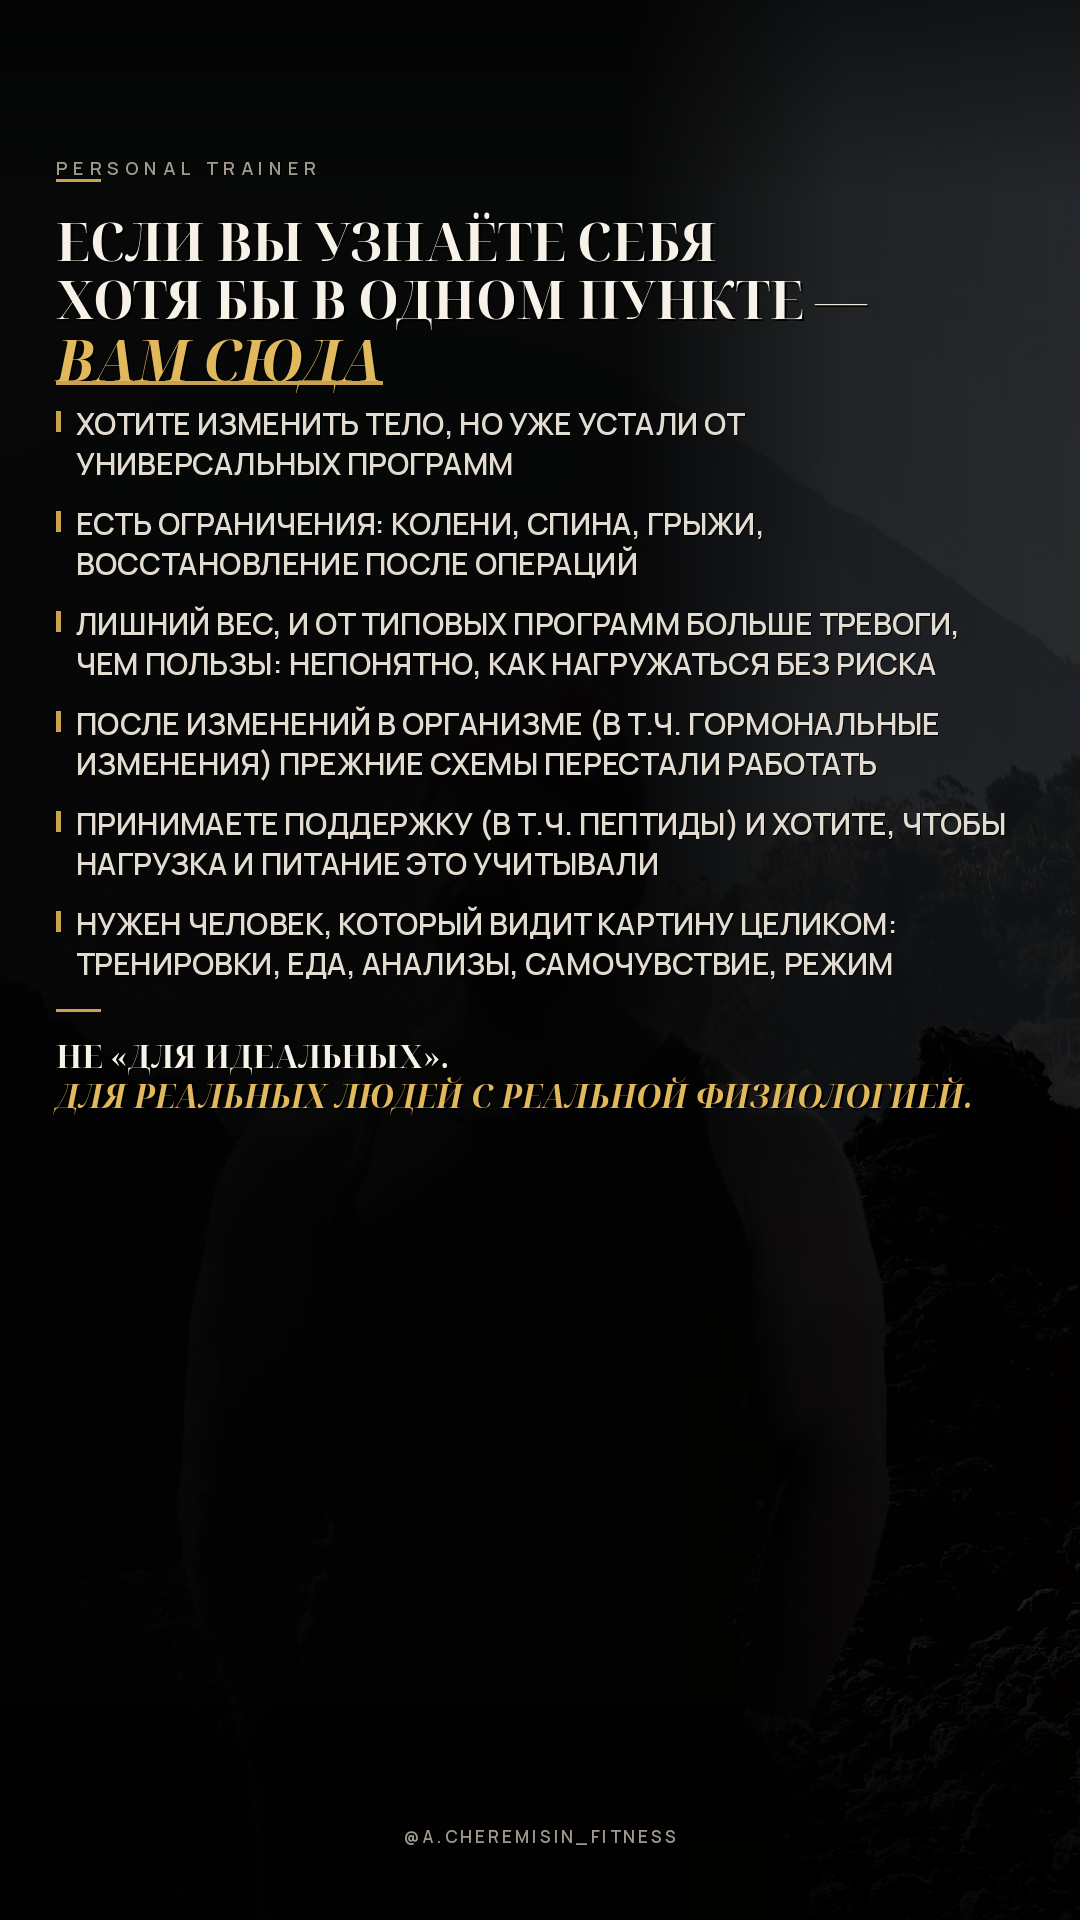
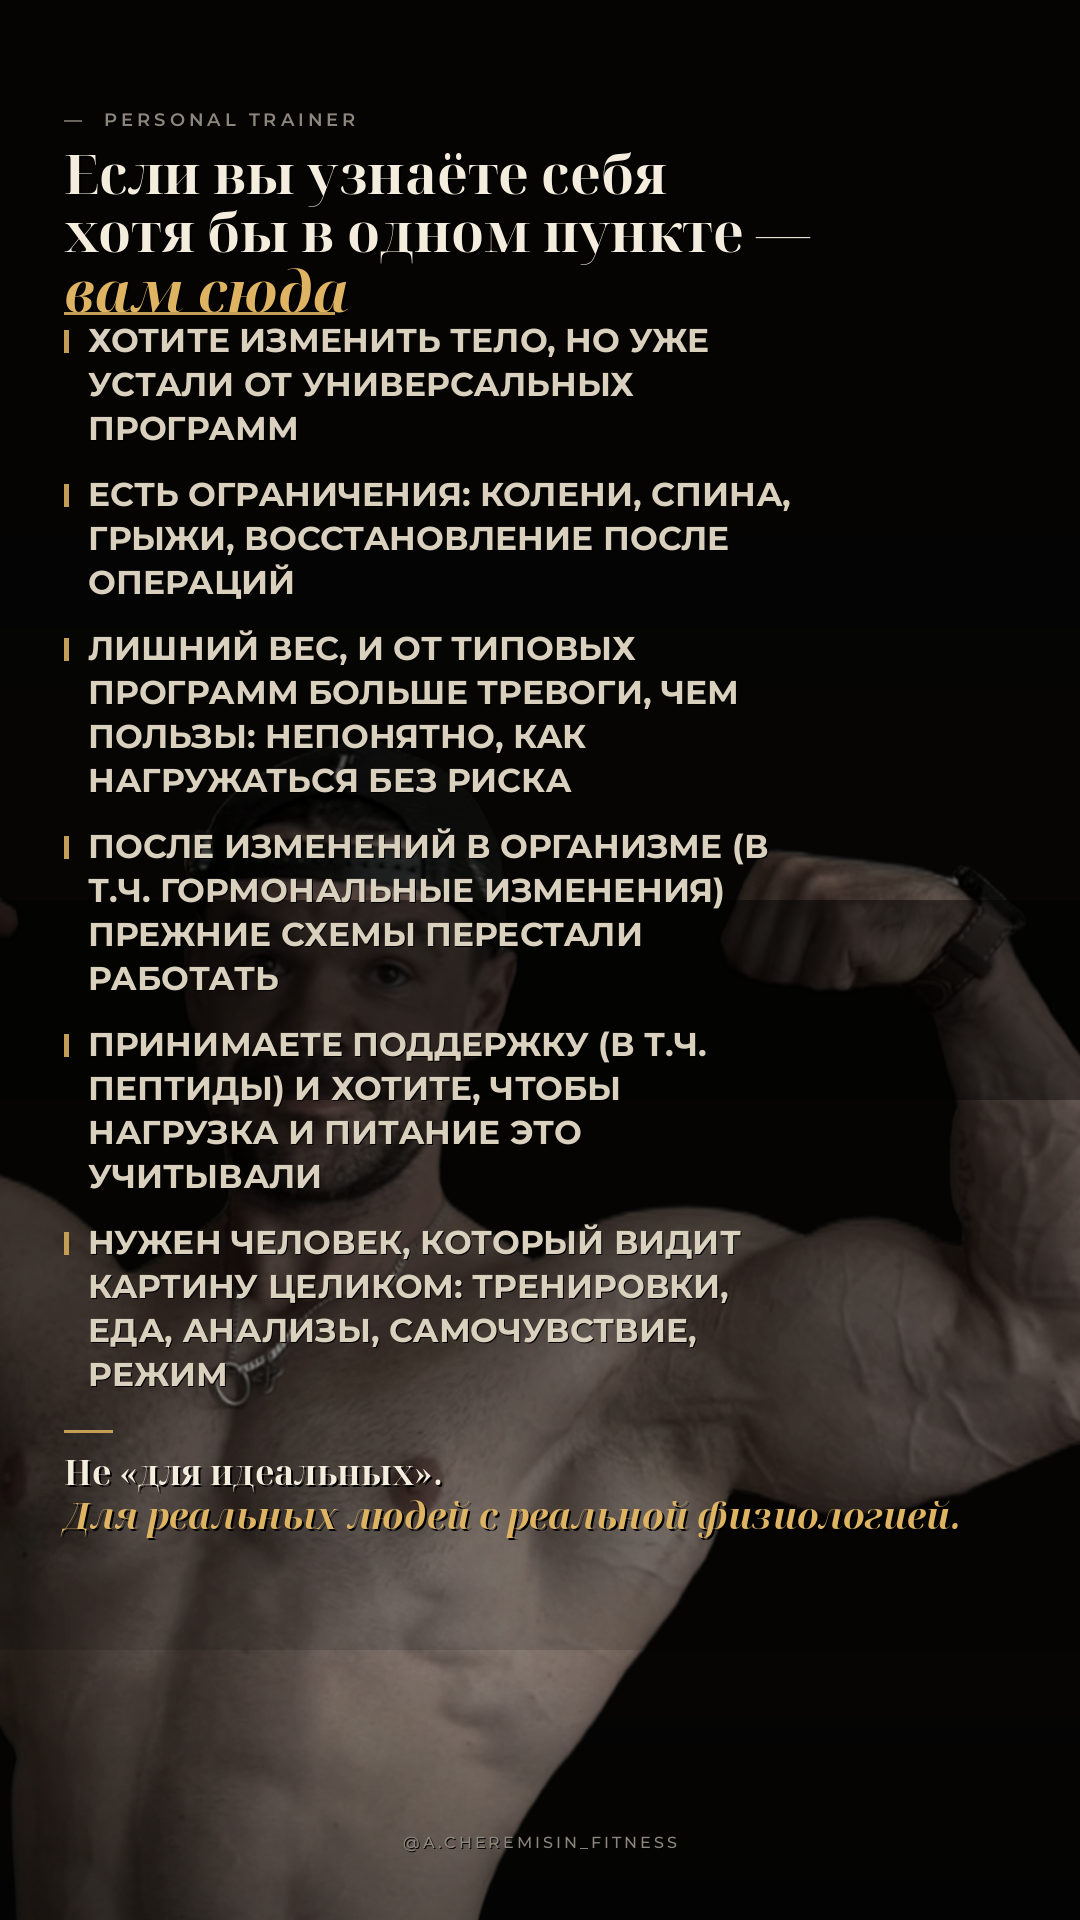
Restyle story: Artur cutout, ALL CAPS body, filled page
Darker underlay with subject cutout, larger Montserrat all-caps
list, continuous top-to-bottom layout without large empty bands.

diff --git a/create_story.py b/create_story.py
@@ -1,87 +1,98 @@
 #!/usr/bin/env python3
 """
-Instagram Stories — layout by annotated zones:
-1) header  2) list+close  3) free CTA zone  4) handle
-All-caps editorial serif (like ТАРИФ «ПЛАН» ref) + Manrope body.
+Instagram Stories slide — filled page, ALL CAPS body, Artur cutout on dark.
 """
 
-from PIL import Image, ImageDraw, ImageFont, ImageEnhance
+from PIL import Image, ImageDraw, ImageFont, ImageEnhance, ImageFilter
 from pathlib import Path
 
 W, H = 1080, 1920
-ASSETS = Path("/home/ubuntu/.cursor/projects/workspace/assets")
+CUTOUTS = Path("/workspace/story-assets/cutouts")
 FONTS = Path("/workspace/story-assets/fonts")
+NOTO = Path("/usr/share/fonts/truetype/noto")
 OUT = Path("/workspace/output")
 ART = Path("/opt/cursor/artifacts")
 OUT.mkdir(exist_ok=True)
 ART.mkdir(parents=True, exist_ok=True)
 
-CREAM = (246, 242, 232)
-CREAM_DIM = (226, 220, 208)
-GOLD = (226, 184, 92)
-GOLD_SOFT = (200, 162, 80)
-MUTED = (160, 152, 140)
+CREAM = (244, 236, 220)
+CREAM_DIM = (218, 208, 190)
+GOLD = (222, 180, 98)
+GOLD_SOFT = (196, 158, 84)
+MUTED = (140, 134, 124)
 
-NOTO = Path("/usr/share/fonts/truetype/noto")
-# Expensive all-caps serif like ТАРИФ «ПЛАН»
-font_hook = ImageFont.truetype(str(NOTO / "NotoSerifDisplay-Bold.ttf"), 52)
-font_accent = ImageFont.truetype(str(NOTO / "NotoSerifDisplay-BoldItalic.ttf"), 56)
-font_close = ImageFont.truetype(str(NOTO / "NotoSerifDisplay-Bold.ttf"), 32)
-font_close_em = ImageFont.truetype(str(NOTO / "NotoSerifDisplay-BoldItalic.ttf"), 32)
-# Body — clean geometric sans, all caps, larger for readability
-font_body = ImageFont.truetype(str(FONTS / "MR-600.ttf"), 30)
-font_label = ImageFont.truetype(str(FONTS / "MR-600.ttf"), 18)
-font_handle = ImageFont.truetype(str(FONTS / "MR-600.ttf"), 17)
-
-
-def cover_crop(img: Image.Image, tw: int, th: int, focus=(0.60, 0.32)) -> Image.Image:
-    img = img.convert("RGB")
-    sw, sh = img.size
-    scale = max(tw / sw, th / sh)
-    nw, nh = int(sw * scale), int(sh * scale)
-    img = img.resize((nw, nh), Image.Resampling.LANCZOS)
-    left = int((nw - tw) * focus[0])
-    top = int((nh - th) * focus[1])
-    left = max(0, min(left, nw - tw))
-    top = max(0, min(top, nh - th))
-    return img.crop((left, top, left + tw, top + th))
+# Headline — high-contrast Didone (premium)
+font_hook = ImageFont.truetype(str(NOTO / "NotoSerifDisplay-Bold.ttf"), 54)
+font_hook_it = ImageFont.truetype(str(NOTO / "NotoSerifDisplay-BoldItalic.ttf"), 56)
+font_close = ImageFont.truetype(str(NOTO / "NotoSerifDisplay-Bold.ttf"), 34)
+font_close_it = ImageFont.truetype(str(NOTO / "NotoSerifDisplay-BoldItalic.ttf"), 36)
+# Body — modern sans ALL CAPS (как в тарифе «ПЛАН»)
+font_body = ImageFont.truetype(str(FONTS / "Montserrat-700.ttf"), 33)
+font_label = ImageFont.truetype(str(FONTS / "Montserrat-600.ttf"), 18)
+font_handle = ImageFont.truetype(str(FONTS / "Montserrat-500.ttf"), 16)
 
 
-def make_underlay(photo: Image.Image, focus) -> Image.Image:
-    base = cover_crop(photo, W, H, focus=focus)
-    # Slightly darker than previous pass
-    base = ImageEnhance.Brightness(base).enhance(0.40)
-    base = ImageEnhance.Color(base).enhance(0.45)
-    base = ImageEnhance.Contrast(base).enhance(1.20)
+def load_cutout(path: Path, max_h: int = 1500) -> Image.Image:
+    im = Image.open(path).convert("RGBA")
+    bbox = im.getbbox()
+    im = im.crop(bbox)
+    # scale to height
+    ratio = max_h / im.height
+    im = im.resize((int(im.width * ratio), max_h), Image.Resampling.LANCZOS)
+    # Visible through dark veil — enough presence to fill lower page
+    rgb = im.convert("RGB")
+    rgb = ImageEnhance.Brightness(rgb).enhance(0.52)
+    rgb = ImageEnhance.Color(rgb).enhance(0.42)
+    rgb = ImageEnhance.Contrast(rgb).enhance(1.22)
+    out = rgb.convert("RGBA")
+    out.putalpha(im.split()[-1])
+    # soft edge
+    alpha = out.split()[-1].filter(ImageFilter.GaussianBlur(0.6))
+    out.putalpha(alpha)
+    return out
 
-    warm = Image.new("RGB", (W, H), (5, 3, 2))
-    base = Image.blend(base, warm, 0.42)
-    rgba = base.convert("RGBA")
 
-    panel = Image.new("RGBA", (W, H), (0, 0, 0, 0))
-    pd = ImageDraw.Draw(panel)
-    for x in range(W):
-        t = x / W
-        if t < 0.58:
-            a = 225
-        elif t < 0.78:
-            a = int(225 - (t - 0.58) / 0.20 * 140)
-        else:
-            a = int(85 - (t - 0.78) / 0.22 * 25)
-        pd.line([(x, 0), (x, H)], fill=(2, 2, 2, max(50, a)))
+def place_cutout(canvas: Image.Image, cutout: Image.Image, anchor="bottom-center"):
+    """Place Artur on the right/lower half so he shows beside/behind type."""
+    cw, ch = cutout.size
+    if anchor == "bottom-center":
+        x = W - cw + 20
+        y = H - ch + 60
+    elif anchor == "bottom-right":
+        x = W - cw + 40
+        y = H - ch + 80
+    else:
+        x, y = 100, H - ch
+    # soft glow behind figure
+    glow = Image.new("RGBA", (W, H), (0, 0, 0, 0))
+    g = cutout.copy()
+    # expand alpha for glow
+    ga = g.split()[-1].filter(ImageFilter.GaussianBlur(28))
+    glow_layer = Image.new("RGBA", g.size, (40, 32, 22, 0))
+    glow_layer.putalpha(ga.point(lambda a: min(90, a // 3)))
+    glow.paste(glow_layer, (x, y), glow_layer)
+    canvas = Image.alpha_composite(canvas, glow)
+    canvas.paste(cutout, (x, y), cutout)
+    return canvas
 
-    vig = Image.new("RGBA", (W, H), (0, 0, 0, 0))
-    vd = ImageDraw.Draw(vig)
-    for y in range(0, 200):
-        a = int(130 * (1 - y / 200))
-        vd.line([(0, y), (W, y)], fill=(0, 0, 0, a))
-    for y in range(1600, H):
-        a = int(170 * ((y - 1600) / (H - 1600)) ** 0.85)
-        vd.line([(0, y), (W, y)], fill=(0, 0, 0, min(210, a)))
 
-    out = Image.alpha_composite(rgba, panel)
-    out = Image.alpha_composite(out, vig)
-    return out.convert("RGB")
+def dark_veil(canvas: Image.Image) -> Image.Image:
+    """Extra darken so Artur reads through darkness; text stays crisp."""
+    veil = Image.new("RGBA", (W, H), (0, 0, 0, 0))
+    d = ImageDraw.Draw(veil)
+    # Darker overall; keep mid-lower a bit more open so Artur reads
+    d.rectangle([0, 0, W, H], fill=(0, 0, 0, 125))
+    for y in range(0, 900):
+        a = int(60 * (1 - y / 900) ** 0.7)
+        d.line([(0, y), (W, y)], fill=(0, 0, 0, a))
+    # lighter veil where figure sits (mid-lower)
+    for y in range(1100, 1650):
+        a = 35
+        d.line([(0, y), (W, y)], fill=(0, 0, 0, a))
+    for y in range(1650, H):
+        a = int(90 * ((y - 1650) / (H - 1650)))
+        d.line([(0, y), (W, y)], fill=(0, 0, 0, min(140, a)))
+    return Image.alpha_composite(canvas, veil)
 
 
 def wrap_text(text, font, max_width, draw):
@@ -106,106 +117,107 @@ def shadow_text(draw, xy, text, font, fill, offset=2):
     draw.text((x, y), text, font=font, fill=fill)
 
 
-def spaced(draw, text, font, xy, fill, tracking=3, offset=1):
+def spaced_label(draw, text, font, xy, fill, tracking=5):
     x, y = xy
     for ch in text:
-        shadow_text(draw, (x, y), ch, font, fill, offset=offset)
+        shadow_text(draw, (x, y), ch, font, fill, offset=1)
         x += draw.textlength(ch, font=font) + tracking
-    return x
 
 
-def build(photo_path: Path, out_name: str, focus=(0.60, 0.32)):
-    base = make_underlay(Image.open(photo_path), focus)
-    canvas = base.convert("RGBA")
+def build(cutout_path: Path, out_name: str, max_h=1480, anchor="bottom-center"):
+    # Near-black base
+    canvas = Image.new("RGBA", (W, H), (6, 5, 4, 255))
+    cut = load_cutout(cutout_path, max_h=max_h)
+    canvas = place_cutout(canvas, cut, anchor=anchor)
+    canvas = dark_veil(canvas)
+
     draw = ImageDraw.Draw(canvas)
+    margin = 64
+    content_w = W - margin * 2 - 10
 
-    # Full-width column with comfortable side margins (zones fill width)
-    margin = 56
-    content_w = W - margin * 2 - 8
-
-    # Zone boundaries from annotated layout (approx)
-    # Zone1 header ~160–480, Zone2 list ~500–1380, Zone3 CTA free ~1400–1750
-    y = 155
-
-    # ════════ ZONE 1 — HEADER ════════
-    spaced(draw, "PERSONAL TRAINER", font_label, (margin, y), MUTED, tracking=6)
-    y += 24
-    draw.rectangle([margin, y, margin + 44, y + 2], fill=GOLD_SOFT)
-    y += 26
-
-    for line in ("ЕСЛИ ВЫ УЗНАЁТЕ СЕБЯ", "ХОТЯ БЫ В ОДНОМ ПУНКТЕ —"):
+    # Flow top → middle → bottom continuously (как разметка: 3 блока без дыр)
+    y = 108
+    spaced_label(draw, "—  PERSONAL TRAINER", font_label, (margin, y), MUTED, tracking=4)
+    y += 28
+    for line in ("Если вы узнаёте себя", "хотя бы в одном пункте —"):
         shadow_text(draw, (margin, y), line, font_hook, CREAM, offset=2)
         y += 58
+    shadow_text(draw, (margin, y), "вам сюда", font_hook_it, GOLD, offset=2)
+    aw = draw.textlength("вам сюда", font=font_hook_it)
+    draw.rectangle([margin, y + 60, margin + aw * 0.95, y + 62], fill=GOLD_SOFT)
+    y += 68
 
-    shadow_text(draw, (margin, y), "ВАМ СЮДА", font_accent, GOLD, offset=2)
-    aw = draw.textlength("ВАМ СЮДА", font=font_accent)
-    draw.rectangle([margin, y + 60, margin + aw, y + 63], fill=GOLD_SOFT)
-    y += 82  # short bridge into list
-
-    # ════════ ZONE 2 — LIST + CLOSE (fill middle, leave bottom for sticker) ════════
     bullets = [
-        "ХОТИТЕ ИЗМЕНИТЬ ТЕЛО, НО УЖЕ УСТАЛИ ОТ УНИВЕРСАЛЬНЫХ ПРОГРАММ",
-        "ЕСТЬ ОГРАНИЧЕНИЯ: КОЛЕНИ, СПИНА, ГРЫЖИ, ВОССТАНОВЛЕНИЕ ПОСЛЕ ОПЕРАЦИЙ",
-        "ЛИШНИЙ ВЕС, И ОТ ТИПОВЫХ ПРОГРАММ БОЛЬШЕ ТРЕВОГИ, ЧЕМ ПОЛЬЗЫ: НЕПОНЯТНО, КАК НАГРУЖАТЬСЯ БЕЗ РИСКА",
-        "ПОСЛЕ ИЗМЕНЕНИЙ В ОРГАНИЗМЕ (В Т.Ч. ГОРМОНАЛЬНЫЕ ИЗМЕНЕНИЯ) ПРЕЖНИЕ СХЕМЫ ПЕРЕСТАЛИ РАБОТАТЬ",
-        "ПРИНИМАЕТЕ ПОДДЕРЖКУ (В Т.Ч. ПЕПТИДЫ) И ХОТИТЕ, ЧТОБЫ НАГРУЗКА И ПИТАНИЕ ЭТО УЧИТЫВАЛИ",
-        "НУЖЕН ЧЕЛОВЕК, КОТОРЫЙ ВИДИТ КАРТИНУ ЦЕЛИКОМ: ТРЕНИРОВКИ, ЕДА, АНАЛИЗЫ, САМОЧУВСТВИЕ, РЕЖИМ",
+        "Хотите изменить тело, но уже устали от универсальных программ",
+        "Есть ограничения: колени, спина, грыжи, восстановление после операций",
+        "Лишний вес, и от типовых программ больше тревоги, чем пользы: непонятно, как нагружаться без риска",
+        "После изменений в организме (в т.ч. гормональные изменения) прежние схемы перестали работать",
+        "Принимаете поддержку (в т.ч. пептиды) и хотите, чтобы нагрузка и питание это учитывали",
+        "Нужен человек, который видит картину целиком: тренировки, еда, анализы, самочувствие, режим",
     ]
 
-    line_h = 40      # readable air inside wrapped lines
-    item_gap = 20    # air between points — no giant voids
+    # Larger type + wrap → taller middle block; comfortable air, no giant gaps
+    # Slightly narrower column → more wraps → taller filled middle
+    # Left column (~70%) so Artur reads on the right through the dark
+    wrapped = [wrap_text(b.upper(), font_body, 720, draw) for b in bullets]
+    total_lines = sum(len(w) for w in wrapped)
+    # Pack into band ending ~1600 with air, no voids
+    target = 1600
+    avail = target - y
+    n_gaps = len(bullets) - 1
+    line_h = 40
+    item_gap = max(14, min(22, (avail - total_lines * line_h) // n_gaps))
+    # Prefer growing line_h a bit over huge gaps
+    while total_lines * line_h + n_gaps * item_gap < avail - 30 and line_h < 44:
+        line_h += 1
+    item_gap = max(14, min(22, (avail - total_lines * line_h) // n_gaps))
+    print(f"layout lines={total_lines} line_h={line_h} gap={item_gap} y0={y}")
 
-    for item in bullets:
-        lines = wrap_text(item, font_body, content_w - 28, draw)
-        draw.rectangle([margin, y + 8, margin + 4, y + 28], fill=GOLD_SOFT)
-        tx = margin + 20
+    for lines in wrapped:
+        draw.rectangle([margin, y + 10, margin + 4, y + 32], fill=GOLD_SOFT)
+        tx = margin + 24
         for line in lines:
             shadow_text(draw, (tx, y), line, font_body, CREAM_DIM, offset=1)
             y += line_h
         y += item_gap
 
-    y += 6
-    draw.rectangle([margin, y, margin + 44, y + 2], fill=GOLD_SOFT)
-    y += 24
-    shadow_text(draw, (margin, y), "НЕ «ДЛЯ ИДЕАЛЬНЫХ».", font_close, CREAM, offset=2)
-    y += 40
-    shadow_text(
-        draw,
-        (margin, y),
-        "ДЛЯ РЕАЛЬНЫХ ЛЮДЕЙ С РЕАЛЬНОЙ ФИЗИОЛОГИЕЙ.",
-        font_close_em,
-        GOLD,
-        offset=2,
-    )
-    # ZONE 3 below (~200–280px) free for link / CTA sticker
+    # Closing directly under list (small air) — no empty band
+    y += 10
+    draw.rectangle([margin, y, margin + 48, y + 2], fill=GOLD_SOFT)
+    y += 18
+    shadow_text(draw, (margin, y), "Не «для идеальных».", font_close, CREAM, offset=2)
+    y += 42
+    close2 = "Для реальных людей с реальной физиологией."
+    for line in wrap_text(close2, font_close_it, content_w - 40, draw):
+        shadow_text(draw, (margin, y), line, font_close_it, GOLD, offset=2)
+        y += 40
 
-    # ════════ FOOTER ════════
+    print(f"content_end={y}")
+
     handle = "@A.CHEREMISIN_FITNESS"
     total = sum(draw.textlength(ch, font=font_handle) + 3 for ch in handle) - 3
-    spaced(
-        draw,
-        handle,
-        font_handle,
-        ((W - total) / 2, H - 96),
-        MUTED,
-        tracking=3,
-    )
+    # Keep handle close under closing — no dead footer zone
+    handle_y = min(H - 90, y + 36)
+    spaced_label(draw, handle, font_handle, ((W - total) / 2, handle_y), MUTED, tracking=3)
 
     final = canvas.convert("RGB")
     for dest in (OUT / out_name, ART / out_name):
         final.save(dest, "PNG")
-        print("saved", dest, "| content ends y≈", y)
+        print("saved", dest, "final_y", y)
     return OUT / out_name
 
 
 if __name__ == "__main__":
+    # Clean cutout — red beanie (no baked text)
     build(
-        ASSETS / "a84e4e80-0540-4281-af77-7a25b5ded17f.jpg",
+        CUTOUTS / "cutout_fc132508-741c-4fd8-84fd-e0942788c9f4.png",
         "cheremisin_story_slide.png",
-        focus=(0.55, 0.42),
+        max_h=1550,
+        anchor="bottom-center",
     )
     build(
-        ASSETS / "fc132508-741c-4fd8-84fd-e0942788c9f4.jpg",
+        CUTOUTS / "cutout_flex_upper.png",
         "cheremisin_story_slide_alt.png",
-        focus=(0.60, 0.30),
+        max_h=1250,
+        anchor="bottom-center",
     )
